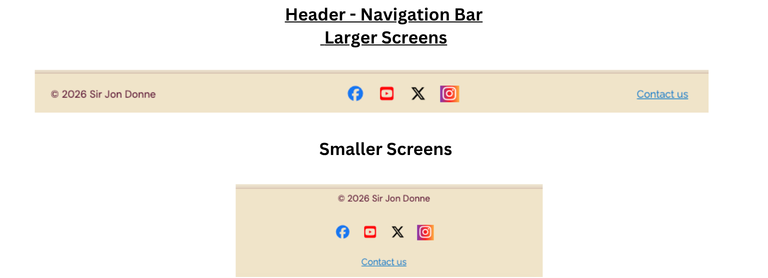
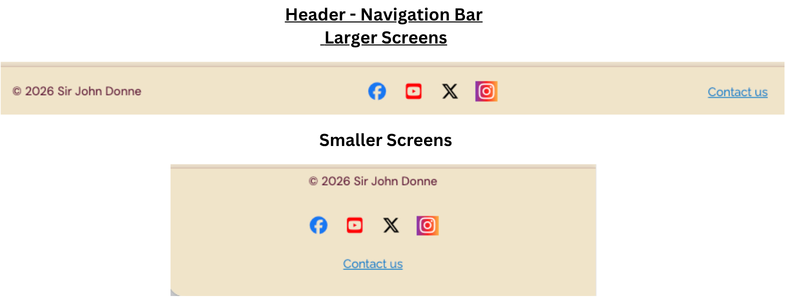
merge media query so hover works on all pc screen sizes

Changed region(s): [[0.0, 0.2014, 1.0, 1.0], [0.3438, 0.0288, 0.625, 0.1727]]

diff --git a/assets/css/styles.css b/assets/css/styles.css
@@ -821,11 +821,8 @@ footer {
         transform: scale(1.3);  /* grows bigger */
         text-shadow: 0 0 8px currentColor; /* glow matches the icon's own color */
     }
-}
 
-/* Media query: Larger devices (laptops and desktops, 992 px and up) */
-@media screen and (min-width: 992px) {
-
+/* removed 'Media query Larger devices (laptops and desktops, 992 px and up)' added to (min-width: 768px)*/
     main {
         margin-top: 0;
         padding-top: 55px;

diff --git a/README.md b/README.md
@@ -364,9 +364,10 @@ The navigation bar appears on all pages, and provides easy navigation between th
 _The original footer._
 </details> <br>
 
-<details> <summary><strong>Updated Navigation Bar</strong> (Click to expand)</summary>
+<details> <summary><strong>Updated Navigation Bar</strong> (Click to expand)</summary><br>
 
 ![Footer](assets/images/readme-images/features-updated-footer.png)
+
 _The updated footer following feedback as noted below._
 </details> <br>
 
